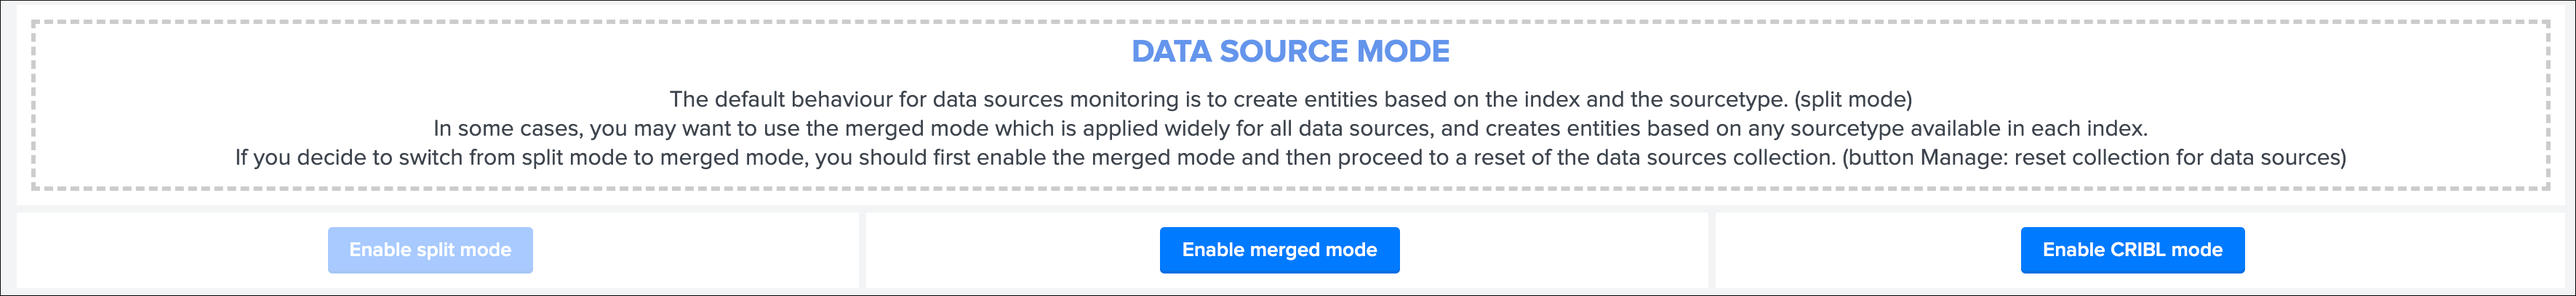
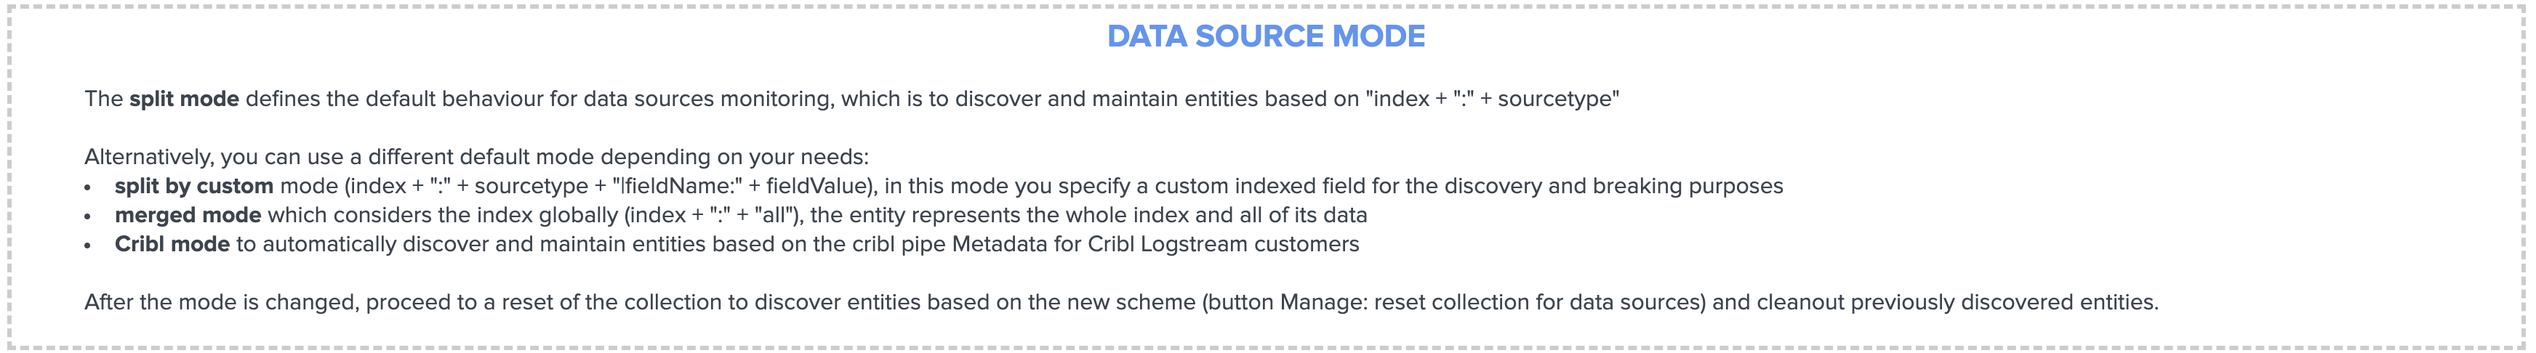
Version 1.2.55
- Feature: Provides a new split by custom mode to allow defining a custom indexed field in the data source discovery and maintenance workflow
- Feature: Notification bar and various UI improvements in the configuration UI

diff --git a/package/default/data/ui/html/TrackMe_manage.html b/package/default/data/ui/html/TrackMe_manage.html
@@ -992,6 +992,32 @@ styles in <div> tags, similar to Bootstrap's grid system.
         </div>
     </div>
 
+    <!-- Custom split by input modal -->
+    <div class="modal fade" id="modal_input_split_by_custom" role="dialog">
+        <div class="modal-dialog">
+
+            <!-- Modal content-->
+            <div class="modal-content">
+                <div class="modal-header modal-header-danger">
+                    <button type="button" class="close" data-dismiss="modal">&times;</button>
+                    <h3 style="color: white;"><span class="glyphicon glyphicon-lock"></span>Custom split by mode</h3>
+                </div>
+                <div class="modal-body">
+
+                    <h2>Provide the custom indexed field to be used for entities discovery and by statement:</h2>
+                    <h3><i>The field must be an indexed field, you cannot specify more than one field and special characters are not allowed.</i></h3>
+                    <input type="text" id="input_split_by_custom_field" style="width: 300px;"/>
+
+                </div>
+
+                <div class="modal-footer">
+                    <button type="submit" class="btn btn-default btn-default pull-left" data-dismiss="modal"><span class="glyphicon glyphicon-remove"></span> Cancel</button>
+                    <button type="submit" id="btn_modal_input_split_by_custom_field" disabled='disabled' class="btn btn-default btn-primary pull-right" data-dismiss="modal"><span class="glyphicon glyphicon-remove"></span> Confirm</button>
+                </div>
+            </div>
+        </div>
+    </div>
+
     <!-- START MAIN -->
 
     <div id="rowManageResetInfo" class="dashboard-row dashboard-rowManageResetInfo">
@@ -1135,13 +1161,16 @@ styles in <div> tags, similar to Bootstrap's grid system.
                                     <span style="font-size: 22px; font-weight: bold; color: #6495ed; margin-top: 5px;">DATA SOURCE MODE</span>
                                 </div>
                                 <div style="margin-left: 50px; margin-right: 50px; margin-top: 20px; margin-bottom: 20px; text-align: justify;">
-                                    <h2>The default behaviour for data sources monitoring is to create entities based on index + ":" + sourcetype (<b>split mode</b>)
+                                    <h2>The <b>split mode</b> defines the default behaviour for data sources monitoring, which is to discover and maintain entities based on "index + ":" + sourcetype"
+                                        <br /><br />
+                                        Alternatively, you can use a different default mode depending on your needs:                                        
+                                        <lu>
+                                            <li><b>split by custom</b> mode (index + ":" + sourcetype + "|fieldName:" + fieldValue), in this mode you specify a custom indexed field for the discovery and breaking purposes</li>
+                                            <li><b>merged mode</b> which considers the index globally (index + ":" + "all"), the entity represents the whole index and all of its data</li>
+                                            <li><b>Cribl mode</b> to automatically discover and maintain entities based on the cribl pipe Metadata for Cribl Logstream customers</li>
+                                        </lu>
                                         <br />
-                                        Alternatively, you can use the <b>split by source</b> mode (index + ":" + sourcetype + ":" + source) or the <b>merged mode</b> which considers the index globally (index + ":" + "all")
-                                        <br />
-                                        Cibl Logstream customers can decide to enable the <b>Cribl mode</b> to automatically discover and maintain entities based on the cribl pipe Metadata
-                                        <br />
-                                        After the mode is changed, proceed to a reset of the collection to discover entities based on the new scheme (button Manage: reset collection for data sources)
+                                        After the mode is changed, proceed to a reset of the collection to discover entities based on the new scheme (button Manage: reset collection for data sources) and cleanout previously discovered entities.
                                     </h2>
                                 </div>
                             </div>
@@ -1168,8 +1197,8 @@ styles in <div> tags, similar to Bootstrap's grid system.
             <div class="dashboard-panel clearfix">
                 <h2 class="panel-title"></h2>
                 <div class="fieldset" style="text-align: center;">
-                    <div class="form-submit" id="btn_data_source_split_by_source_mode">
-                        <button id="btn_enable_data_source_split_by_source_mode" class="btn btn-primary submit">Enable split by source mode</button>
+                    <div class="form-submit" id="btn_data_source_split_by_custom_mode">
+                        <button id="btn_enable_data_source_split_by_custom_mode" class="btn btn-primary submit">Enable split custom mode</button>
                     </div>
                 </div>
             </div>
@@ -1970,16 +1999,15 @@ require([
             "jquery",
             "/static/app/trackme/notifybar/jquery.notifyBar.js",
             ], function ($) {
-            //code here
-            console.log("notify")
-            jQuery(function () {
-                jQuery.notifyBar({
-                cssClass: varCss,
-                position: varPosition,
-                html: varHtml,
-                delay: vardelay,
+                //code here
+                jQuery(function () {
+                    jQuery.notifyBar({
+                    cssClass: varCss,
+                    position: varPosition,
+                    html: varHtml,
+                    delay: vardelay,
+                    });
                 });
-            });
             });
         }
 
@@ -3593,7 +3621,7 @@ require([
 
                     if (!current_data_source_mode) {
                         document.getElementById('btn_enable_data_source_split_mode').disabled = false;
-                        document.getElementById('btn_enable_data_source_split_by_source_mode').disabled = false;
+                        document.getElementById('btn_enable_data_source_split_by_custom_mode').disabled = false;
                         document.getElementById('btn_enable_data_source_merged_mode').disabled = false;
                         document.getElementById('btn_enable_data_source_cribl_mode').disabled = false;
                         return;
@@ -3602,31 +3630,31 @@ require([
                     // Dynamically manage buttons states
                     if (current_data_source_mode == "trackme_data_source_split_mode") {
                         document.getElementById('btn_enable_data_source_split_mode').disabled = true;
-                        document.getElementById('btn_enable_data_source_split_by_source_mode').disabled = false;
+                        document.getElementById('btn_enable_data_source_split_by_custom_mode').disabled = false;
                         document.getElementById('btn_enable_data_source_merged_mode').disabled = false;
                         document.getElementById('btn_enable_data_source_cribl_mode').disabled = false;
                     }
-                    else if (current_data_source_mode == "trackme_data_source_split_bysource_mode") {
+                    else if (current_data_source_mode.includes("trackme_data_source_split_bycustom_mode")) {
                         document.getElementById('btn_enable_data_source_split_mode').disabled = false;
-                        document.getElementById('btn_enable_data_source_split_by_source_mode').disabled = true;
+                        document.getElementById('btn_enable_data_source_split_by_custom_mode').disabled = true;                        
                         document.getElementById('btn_enable_data_source_merged_mode').disabled = false;
                         document.getElementById('btn_enable_data_source_cribl_mode').disabled = false;
                     }
                     else if (current_data_source_mode == "trackme_data_source_merged_mode") {
                         document.getElementById('btn_enable_data_source_split_mode').disabled = false;
-                        document.getElementById('btn_enable_data_source_split_by_source_mode').disabled = false;
+                        document.getElementById('btn_enable_data_source_split_by_custom_mode').disabled = false;
                         document.getElementById('btn_enable_data_source_merged_mode').disabled = true;
                         document.getElementById('btn_enable_data_source_cribl_mode').disabled = false;
                     }
                     else if (current_data_source_mode == "trackme_data_source_cribl_mode") {
                         document.getElementById('btn_enable_data_source_split_mode').disabled = false;
-                        document.getElementById('btn_enable_data_source_split_by_source_mode').disabled = false;
+                        document.getElementById('btn_enable_data_source_split_by_custom_mode').disabled = false;
                         document.getElementById('btn_enable_data_source_merged_mode').disabled = false;
                         document.getElementById('btn_enable_data_source_cribl_mode').disabled = true;
                     }
                     else {
                         document.getElementById('btn_enable_data_source_split_mode').disabled = false;
-                        document.getElementById('btn_enable_data_source_split_by_source_mode').disabled = false;
+                        document.getElementById('btn_enable_data_source_split_by_custom_mode').disabled = false;
                         document.getElementById('btn_enable_data_source_merged_mode').disabled = false;
                         document.getElementById('btn_enable_data_source_cribl_mode').disabled = false;
                     }
@@ -3639,26 +3667,42 @@ require([
         get_data_source_mode();
 
         // Update the data sources mode
-        function update_data_source_mode(value) {
+        function update_data_source_mode(value, field) {
 
             var query_url = "/en-US/splunkd/__raw/servicesNS/nobody/trackme/configs/conf-macros/trackme_default_data_source_mode"
             var query_url2 = "/en-US/splunkd/__raw/servicesNS/nobody/trackme/configs/conf-macros/trackme_data_source_tstats_root_splitby"
-            var value = value;
+            var main_splitby_value;
+            var root_splitby_value;
 
+            // standard
             if (value == "trackme_data_source_split_mode") {
+                main_splitby_value = value;
                 change_type = "enable data source split mode";
                 root_splitby_value = "trackme_data_source_tstats_root_splitby_regular";
+            // split by source
             } else if (value == "trackme_data_source_split_bysource_mode") {
+                main_splitby_value = value;
                 change_type = "enable data source split by source mode";
                 root_splitby_value = "trackme_data_source_tstats_root_splitby_source";
+            // split by custom indexed field
+            } else if (value.includes("trackme_data_source_split_bycustom_mode")) {
+                // update the value in this specific case
+                main_splitby_value = "trackme_data_source_split_bycustom_mode(\"" + field + "\")";
+                change_type = "enable data source split by custom mode";
+                root_splitby_value = "trackme_data_source_tstats_root_splitby_custom(\"" + field + "\")";
+            // merged mode
             } else if (value == "trackme_data_source_merged_mode") {
+                main_splitby_value = value;
                 change_type = "enable data source merged mode";
                 root_splitby_value = "trackme_data_source_tstats_root_splitby_regular";
+            // cribl mode
             } else if (value == "trackme_data_source_cribl_mode") {
+                main_splitby_value = value;
                 change_type = "enable data source cribl mode";
                 root_splitby_value = "trackme_data_source_tstats_root_splitby_cribl";
             } else {
                 // default if unset
+                main_splitby_value = value;
                 change_type = "trackme_data_source_split_mode";
                 root_splitby_value = "trackme_data_source_tstats_root_splitby_regular";
             }
@@ -3668,7 +3712,7 @@ require([
                 type: "POST",
                 async: true,
                 contentType: "application/json",
-                data: "definition=`" + value + "`",
+                data: "definition=`" + main_splitby_value + "`",
                 success: function(returneddata) {
 
                     $.ajax({
@@ -3679,35 +3723,43 @@ require([
                         data: "definition=`" + root_splitby_value + "`",
                         success: function(returneddata) {
 
+                            // notify
+                            var msgMode;
+
                             // Update the buttons
                             if (value == "trackme_data_source_split_mode") {
                                 document.getElementById('btn_enable_data_source_split_mode').disabled = true;
-                                document.getElementById('btn_enable_data_source_split_by_source_mode').disabled = false;
+                                document.getElementById('btn_enable_data_source_split_by_custom_mode').disabled = false;
                                 document.getElementById('btn_enable_data_source_merged_mode').disabled = false;
                                 document.getElementById('btn_enable_data_source_cribl_mode').disabled = false;
-                            } else if (value == "trackme_data_source_split_bysource_mode") {
+                                msgMode = "Standard split by mode";
+                            } else if (value.includes("trackme_data_source_split_bycustom_mode")) {
                                 document.getElementById('btn_enable_data_source_split_mode').disabled = false;
-                                document.getElementById('btn_enable_data_source_split_by_source_mode').disabled = true;
+                                document.getElementById('btn_enable_data_source_split_by_custom_mode').disabled = true;
                                 document.getElementById('btn_enable_data_source_merged_mode').disabled = false;
                                 document.getElementById('btn_enable_data_source_cribl_mode').disabled = false;
+                                msgMode = "Split by custom mode";
                             } else if (value == "trackme_data_source_merged_mode") {
                                 document.getElementById('btn_enable_data_source_split_mode').disabled = false;
-                                document.getElementById('btn_enable_data_source_split_by_source_mode').disabled = false;
+                                document.getElementById('btn_enable_data_source_split_by_custom_mode').disabled = false;
                                 document.getElementById('btn_enable_data_source_merged_mode').disabled = true;
                                 document.getElementById('btn_enable_data_source_cribl_mode').disabled = false;
+                                msgMode = "merged mode";
                             } else if (value == "trackme_data_source_cribl_mode") {
                                 document.getElementById('btn_enable_data_source_split_mode').disabled = false;
-                                document.getElementById('btn_enable_data_source_split_by_source_mode').disabled = false;
+                                document.getElementById('btn_enable_data_source_split_by_custom_mode').disabled = false;
                                 document.getElementById('btn_enable_data_source_merged_mode').disabled = false;
                                 document.getElementById('btn_enable_data_source_cribl_mode').disabled = true;
+                                msgMode = "Cribl mode";
                             } else {
                                 document.getElementById('btn_enable_data_source_split_mode').disabled = false;
-                                document.getElementById('btn_enable_data_source_split_by_source_mode').disabled = false;
+                                document.getElementById('btn_enable_data_source_split_by_custom_mode').disabled = false;
                                 document.getElementById('btn_enable_data_source_merged_mode').disabled = false;
+                                msgMode = "Standard split by mode";
                             }
 
                             // notify
-                            notify("success", "bottom", 'Data source mode has been successfully set to: ' + value, "5");                            
+                            notify("success", "bottom", 'Data source mode has been successfully set to: ' + msgMode, "5");                            
 
                             // Audit
                             action = "success";
@@ -3761,22 +3813,51 @@ require([
 
         // Enable data source split mode
         $("#btn_enable_data_source_split_mode").click(function() {
-            update_data_source_mode("trackme_data_source_split_mode");
+            update_data_source_mode("trackme_data_source_split_mode", "null");
         });
 
-        // Enable data source split mode source variation
-        $("#btn_enable_data_source_split_by_source_mode").click(function() {
-            update_data_source_mode("trackme_data_source_split_bysource_mode");
+        // custom field, monitors value for custom field
+        $(function () {
+            $("#input_split_by_custom_field").keyup(function () {
+            if ($(this).val() == "") {
+                //Check to see if there is any text entered
+                // If there is no text within the input then disable the button
+                $("#btn_modal_input_split_by_custom_field").prop("disabled", true);
+            }
+            else if (/(\s|\,|\'|\")/i.test($(this).val())) {
+                $("#btn_modal_input_split_by_custom_field").prop("disabled", true);
+                notify("error", "bottom", 'An invalid input was detected, a single field must be provided with no special characters', "5");
+            } else {
+                //If there is text in the input, then enable the button if other conditions are met
+                $("#btn_modal_input_split_by_custom_field").prop("disabled", false);
+            }
+            });
+        });
+
+        // Custom split by modal input
+        $("#btn_enable_data_source_split_by_custom_mode").click(function() {
+            // open modal
+            $("#modal_input_split_by_custom").modal()
+        });
+
+        // retrieve the input value if confirmed, and proceed
+        $("#btn_modal_input_split_by_custom_field").click(function() {
+            $("#modal_input_split_by_custom").modal()
+
+            var customField = document.getElementById("input_split_by_custom_field").value;
+            if (customField != "" && customField != 'undefined') {
+                update_data_source_mode("trackme_data_source_split_bycustom_mode", customField);
+            }
         });
 
         // Enable data source merged mode
         $("#btn_enable_data_source_merged_mode").click(function() {
-            update_data_source_mode("trackme_data_source_merged_mode");
+            update_data_source_mode("trackme_data_source_merged_mode", "null");
         });
 
         // Enable cribl mode
         $("#btn_enable_data_source_cribl_mode").click(function() {
-            update_data_source_mode("trackme_data_source_cribl_mode");
+            update_data_source_mode("trackme_data_source_cribl_mode", "null");
         });
 
         // Outliers Production / Training mode

diff --git a/package/default/data/ui/html/TrackMe.html b/package/default/data/ui/html/TrackMe.html
@@ -19667,11 +19667,12 @@ require([
 
                     }
 
-                    // split by source mode
-                    else if (/\|s:/i.test(tk_data_name)) {
-                        regex_matches = tk_data_name.match(/\|s:(.*)/);
-                        sourceValue = regex_matches[1];
-                        tk_data_source_overview_root_search = "| `trackme_tstats` dc(host) as dcount_host count latest(_indextime) as indextime max(_time) as maxtime where index=\"" + tk_data_index + "\" sourcetype=\"" + tk_data_sourcetype + "\" source=\"" + sourceValue + "\" `trackme_tstats_main_filter` by _time, index, sourcetype, source span=1s | eval delta=(indextime-_time), event_lag=(now() - maxtime)";
+                    // split by custom mode
+                    else if (/\|key:/i.test(tk_data_name)) {
+                        regex_matches = tk_data_name.match(/\|key:([^\|]+)\|(.*)/);
+                        keyName = regex_matches[1];
+                        keyValue = regex_matches[2];
+                        tk_data_source_overview_root_search = "| `trackme_tstats` dc(host) as dcount_host count latest(_indextime) as indextime max(_time) as maxtime where index=\"" + tk_data_index + "\" sourcetype=\"" + tk_data_sourcetype + "\" " + keyName + "=\"" + keyValue + "\" `trackme_tstats_main_filter` by _time, index, sourcetype, source span=1s | eval delta=(indextime-_time), event_lag=(now() - maxtime)";
                         tk_data_source_raw_search = "null";
                         setToken("tk_data_source_timechart_count_aggreg", TokenUtils.replaceTokenNames("sum", _.extend(submittedTokenModel.toJSON(), e.data)));
                     }
@@ -19793,12 +19794,15 @@ require([
                     if (/\|cribl:/i.test(tk_data_name)) {
                         var search_data_source = 'search' + "?q=search%20index%3D\"" + encodeURI(tk_data_index) + "\"" + " sourcetype%3D\"" + encodeURI(tk_data_sourcetype) + "\"" + " cribl_pipe::" + encodeURI(cribl_pipe)
                     }
-                    // split by source
-                    else if (/\|s:/i.test(tk_data_name)) {
-                        regex_matches = tk_data_name.match(/\|s:(.*)/);
-                        sourceValue = regex_matches[1];
-                        var search_data_source = 'search' + "?q=search%20index%3D\"" + encodeURI(tk_data_index) + "\"" + " sourcetype%3D\"" + encodeURI(tk_data_sourcetype) + "\"" + " source%3D\"" + encodeURI(sourceValue) + "\""
+                    
+                    // split by custom
+                    else if (/\|key:/i.test(tk_data_name)) {
+                        regex_matches = tk_data_name.match(/\|key:([^\|]+)\|(.*)/);
+                        keyName = regex_matches[1];
+                        keyValue = regex_matches[2];
+                        var search_data_source = 'search' + "?q=search%20index%3D\"" + encodeURI(tk_data_index) + "\"" + " sourcetype%3D\"" + encodeURI(tk_data_sourcetype) + "\" " + keyName + "%3D\"" + encodeURI(keyValue) + "\""
                     }
+
                     // standard split
                     else {
                         var search_data_source = 'search' + "?q=search%20index%3D\"" + encodeURI(tk_data_index) + "\"" + " sourcetype%3D\"" + encodeURI(tk_data_sourcetype) + "\""

diff --git a/docs/configuration.rst b/docs/configuration.rst
@@ -130,10 +130,11 @@ TrackMe Data Sources - Define what works for you
 
 The primary concept of TrackMe is called **data sources**, See :ref:`Data Sources tracking and features` in the User guide for more explanations.
 
-For the purposes of defining the best strategy that works for you, let's explain the 3 modes available, which you can configure via the ``Trackme manage and configure`` interface:
+For the purposes of defining the best strategy that works for you, let's explain the different modes available, which you can configure via the ``Trackme manage and configure`` interface:
 
 - Split mode (default)
-- Merge mode
+- Split custom mode
+- Merged mode
 - Cribl mode
 
 .. image:: img/step_by_step_configure/ui_data_sources_mode.png
@@ -162,10 +163,23 @@ On the other hand, would we index these 3 WinEventLogs into a unique index, we w
 
 Don't worry, TrackMe has plenty of features that allow you to cover any use cases (Elastic Sources, allow and block listing, etc), the Split mode is generally what covers most use cases, but this is very depending to your context.
 
+Trackme Data Sources - split custom mode
+^^^^^^^^^^^^^^^^^^^^^^^^^^^^^^^^^^^^^^^^
+
+The Split custom mode allows you to define an additional indexed field to be used when discovering and maintaining the data sources.
+
+Once you define the indexed field, entities are going to be created as following:
+
+``index + ":" + sourcetype + "|<keyName>:<keyValue>``
+
+Where ``keyName`` is the name of the indexed field, ``keyValue`` the value.
+
+.. hint:: Once enabled, any data source that does not include the indexed field will not be discovered any longer, you can handle any additional use cases as :ref:`Elastic Sources` or create custom trackers in hybrid mode.
+
 Trackme Data Sources - Merged mode
 ^^^^^^^^^^^^^^^^^^^^^^^^^^^^^^^^^^
 
-On the opposite, the Merged mode removes the concept of sourcetype and basically creates 1 entity per index, no matters what sourcetypes are indexed in it, entities are created as:
+The Merged mode removes the concept of sourcetype and basically creates 1 entity per index, no matters what sourcetypes are indexed in it, entities are created as:
 
 ``index + ":all"``
 

diff --git a/docs/releasenotes.rst b/docs/releasenotes.rst
@@ -10,6 +10,8 @@ Version 1.2.55
     - Some functions such as builtin alert actions are not compatible any longer with Python2 and Splunk 7.x
     - For the latest version available for Splunk 7.x, see the release 1.2.51
 
+- Feature: Provides a new split by custom mode to allow defining a custom indexed field in the data source discovery and maintenance workflow
+- Feature: Notification bar and various UI improvements in the configuration UI
 
 Version 1.2.54
 ==============
